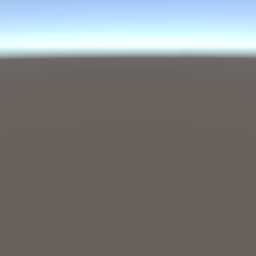
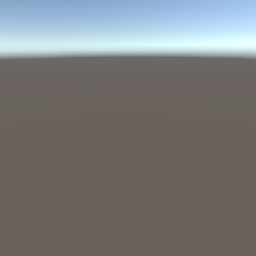
Working version

Changed region(s): [[0.0, 0.0, 0.7812, 0.1875]]

diff --git a/Assets/Scripts/GrabImage.cs b/Assets/Scripts/GrabImage.cs
@@ -17,8 +17,8 @@ public class GrabImage : NetworkBehaviour {
         RenderTexture.active = tx;
         Texture2D t2 = new Texture2D(tx.width, tx.height);
         t2.ReadPixels(new Rect(0, 0, tx.width, tx.height), 0, 0);
-        byte[] png = t2.EncodeToPNG();
-        System.IO.File.WriteAllBytes("blah.png", png);
+        byte[] png = t2.EncodeToJPG();
+        System.IO.File.WriteAllBytes("blah.jpg", png);
         if (isServer) {
             RpcDebugMessages(png);
         } else {
